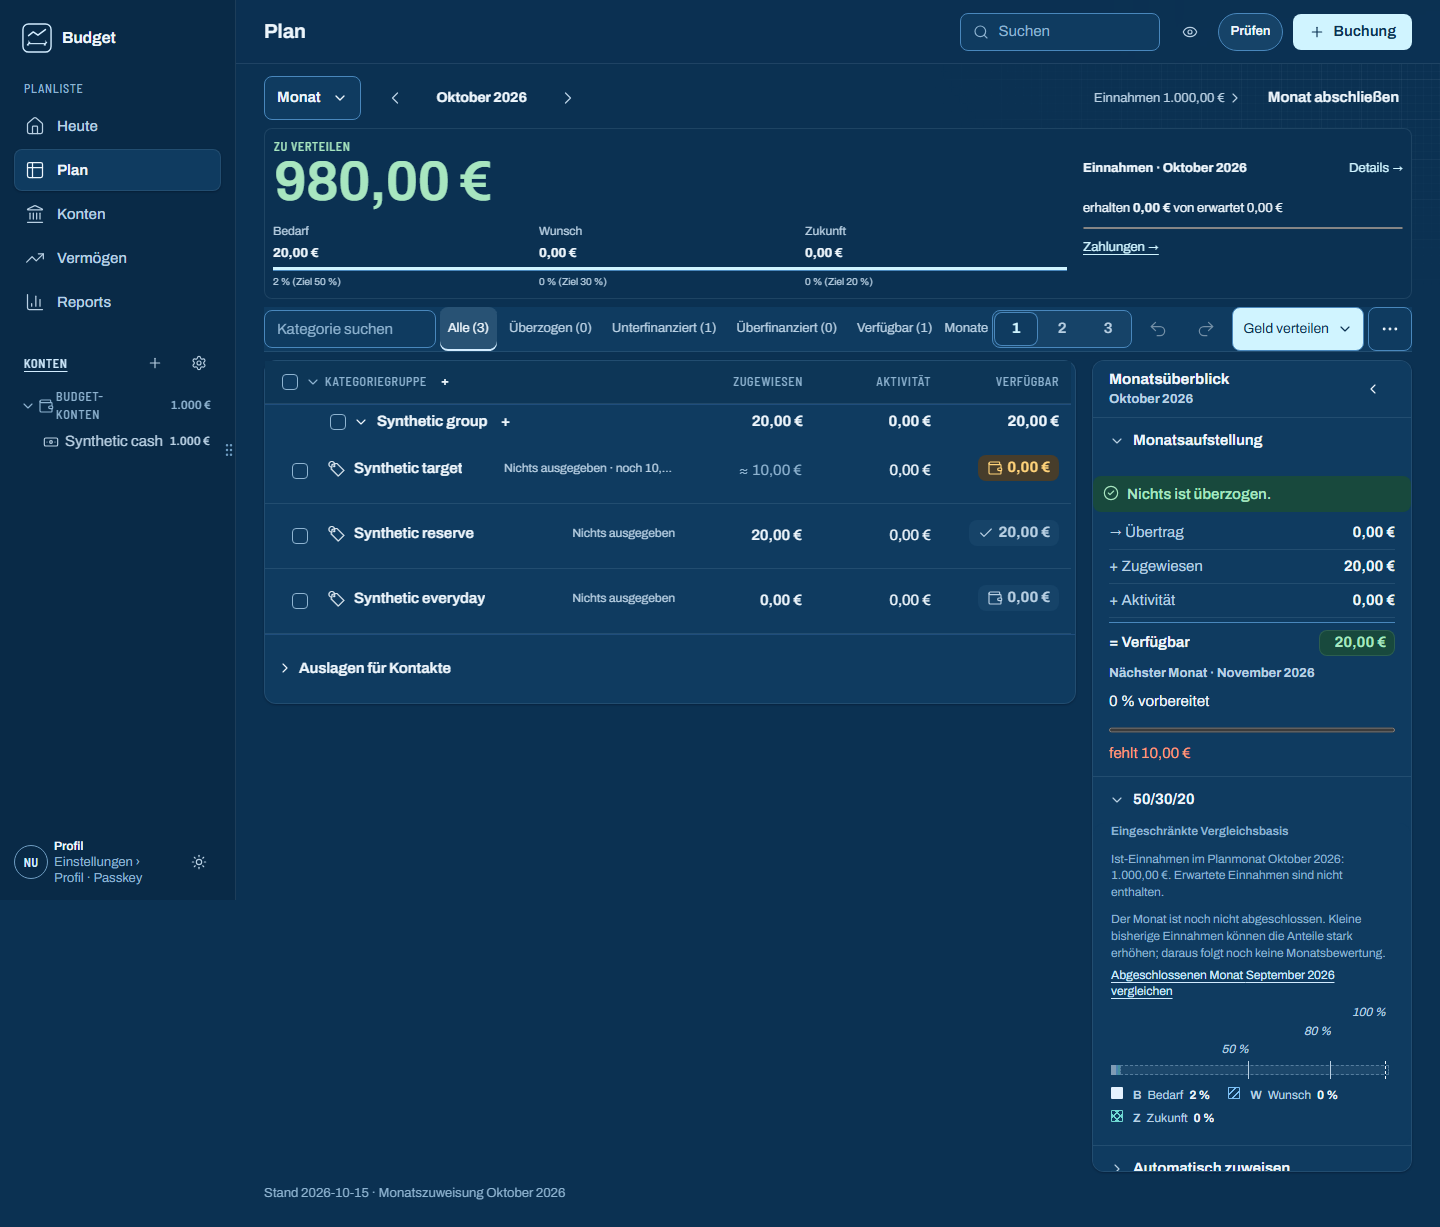
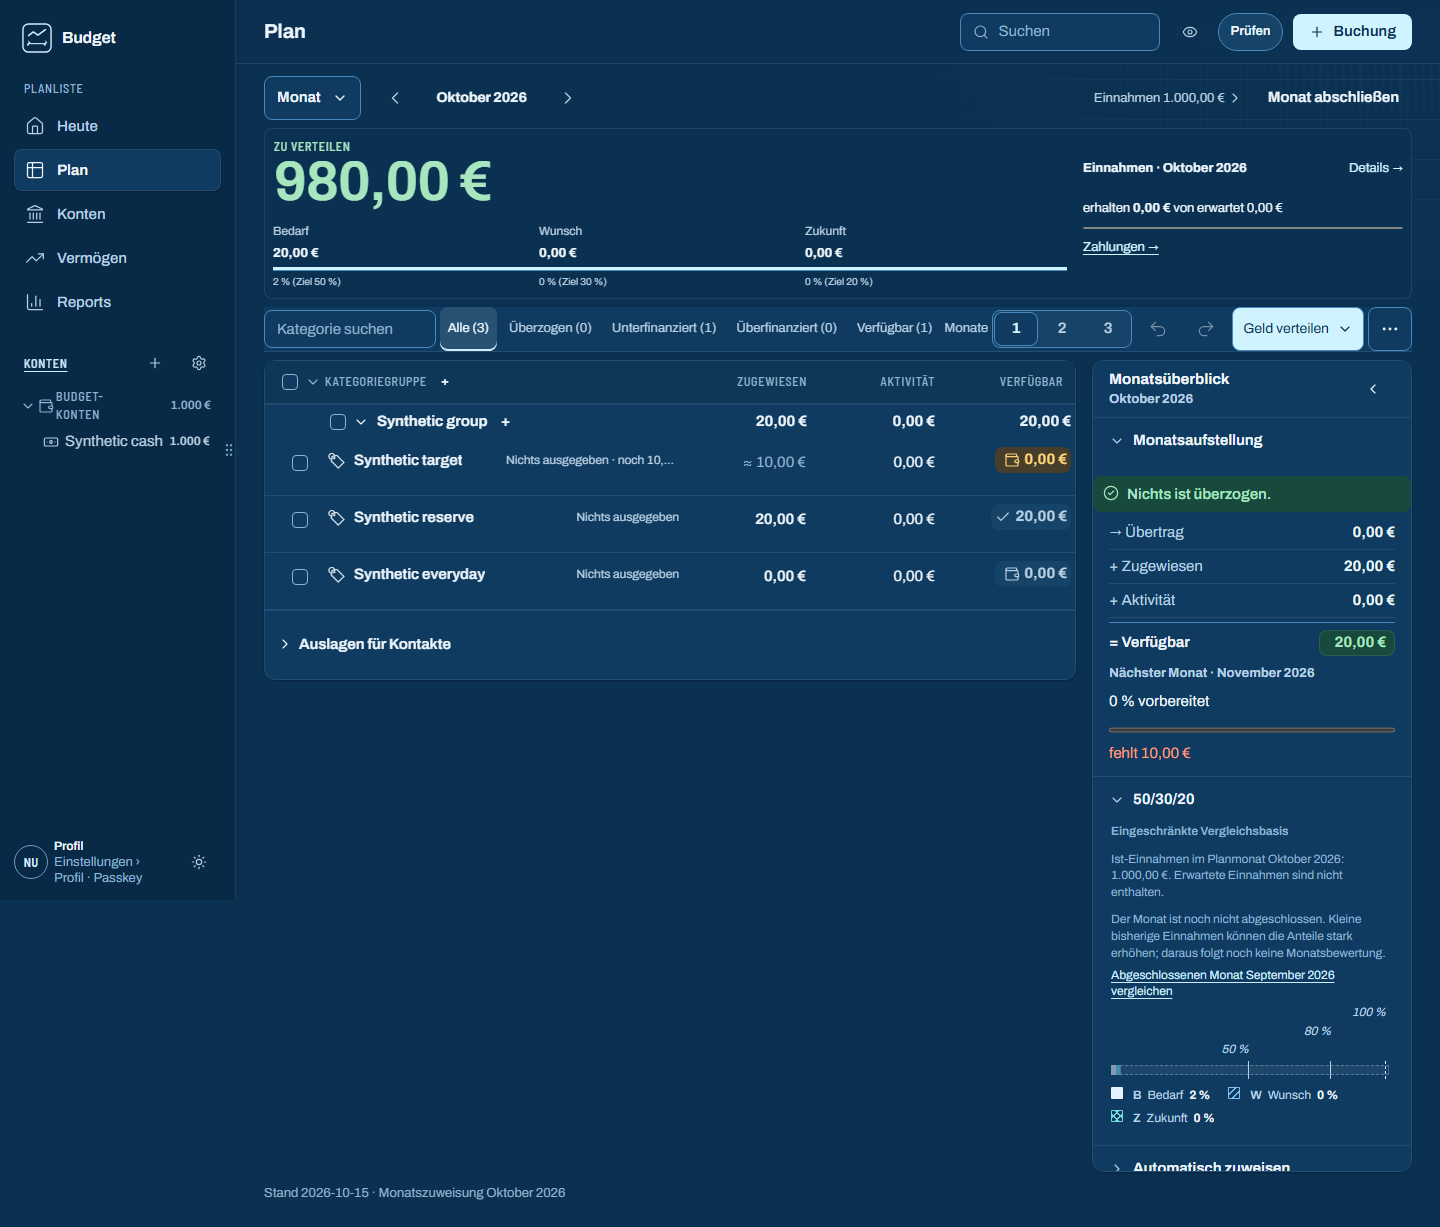
Keep Plan amount pills within fixed columns and refresh evidence

diff --git a/apps/web/src/budget/plan-redesign.css b/apps/web/src/budget/plan-redesign.css
@@ -866,7 +866,7 @@
 .plan-month-frame .plan-month-v2 .plan-grid > .plan-inspector {
   grid-row: 3;
 }
-.plan-month-frame .plan-month-v2 .pmulti-scroll {
+.plan-month-frame .plan.plan-month-v2 .pmulti-scroll:has(> .ptable-zero) {
   padding-inline-end: 0;
 }
 .plan-month-frame .plan-calm-toolbar .plan-category-search {
@@ -994,6 +994,12 @@
   display: none;
 }
 @media (min-width: 768px) {
+  .plan-month-frame .plan.plan-month-v2 .ptable .col-avail {
+    padding-inline: var(--space-xs);
+  }
+  .plan-month-frame .plan-month-v2 .ptable .col-avail .pill {
+    padding-inline: var(--space-xs);
+  }
   .plan-month-frame .plan-density-all .ptable .prow > td {
     padding-top: 0;
     padding-bottom: var(--space-sm);

diff --git a/docs/evidence/issue-1006-plan-calm-rows/README.md b/docs/evidence/issue-1006-plan-calm-rows/README.md
@@ -58,3 +58,12 @@ expiry and removable filters (16 cases), and the merged sorting/archive/contact
 cases (14 cases); each spec ran separately with one worker. ON and OFF builds are
 checked separately. WebKit and complete regression acceptance remain with the
 exact-head CI run. No timeout, financial oracle or tolerance was relaxed.
+
+Geometry diagnosis: the first desktop probe reported five pixels of horizontal
+overflow. Removing legacy scroll padding alone did not fix it. A computed DOM
+measurement traced the overflow to the available-state icon plus pill/cell
+padding on a longer synthetic negative amount. Compact token-based padding keeps
+the existing 128px amount columns and zero-overflow assertion. The 768–1179px
+inspector row reset also preserves the original single-column layout at that range.
+The focused dark desktop geometry case then passed at both 1440 and 1280, including
+zero overflow, exact amount tracks, keyboard actions and no-write assertions.
